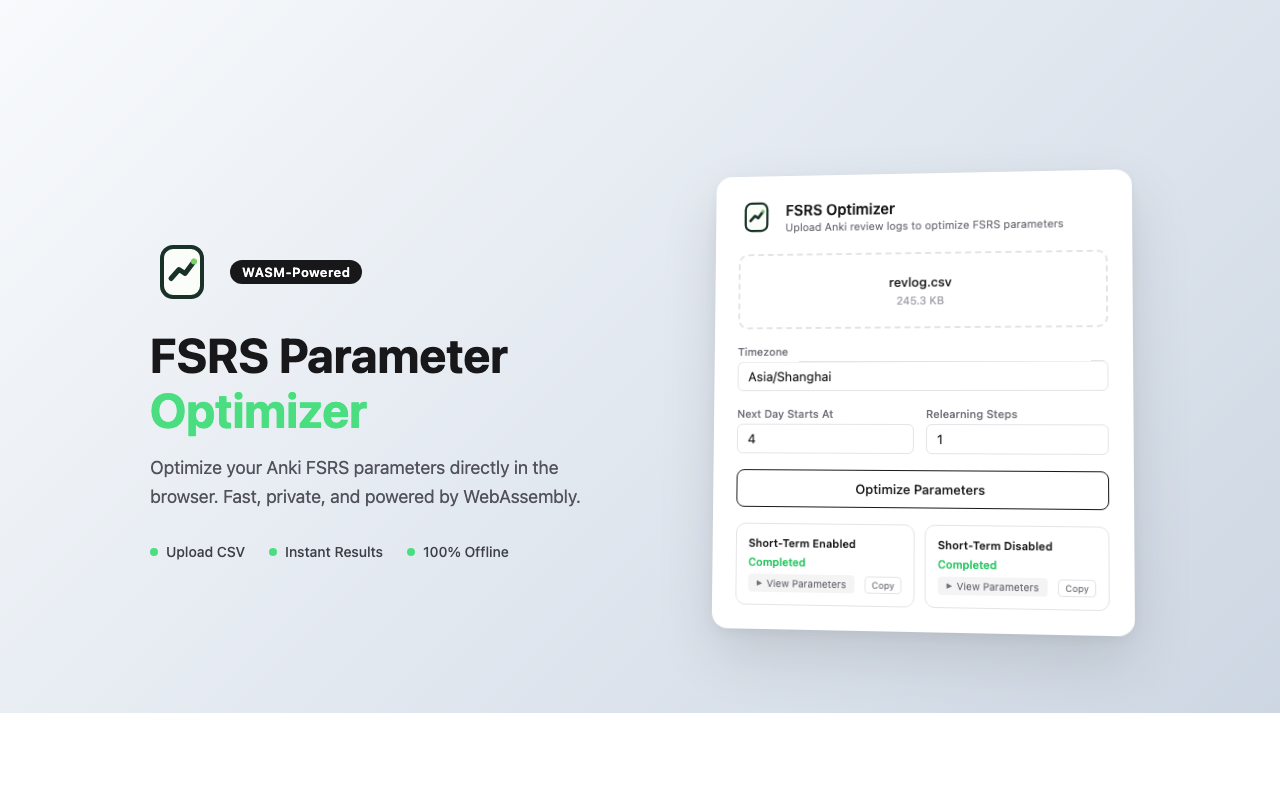
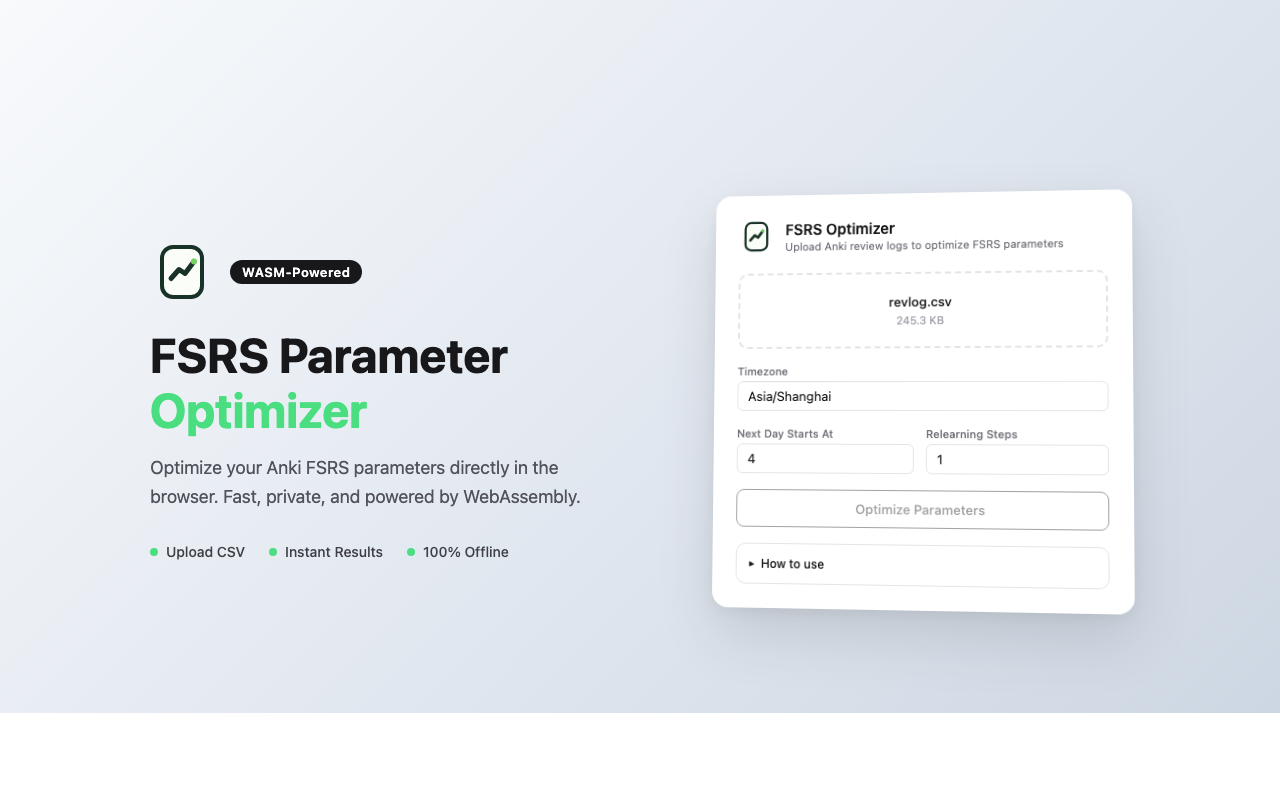
feat: improve UI instructions and update styles for better usability

diff --git a/images/screenshot-1-hero.html b/images/screenshot-1-hero.html
@@ -181,63 +181,26 @@
     margin-bottom: 16px;
   }
 
-  .results {
-    display: flex;
-    gap: 10px;
+  .btn-disabled {
+    opacity: 0.4;
+    cursor: not-allowed;
   }
 
-  .result-card {
-    flex: 1;
+  .how-to-use {
     border: 1px solid #e4e4e7;
     border-radius: 10px;
     padding: 12px;
-  }
-
-  .result-card h3 {
-    font-size: 11px;
-    font-weight: 600;
-    color: #18181b;
-    margin-bottom: 6px;
-  }
-
-  .result-card .completed {
-    font-size: 11px;
+    font-size: 12px;
     font-weight: 500;
-    color: #22c55e;
-    margin-bottom: 6px;
-  }
-
-  .result-card .param-row {
+    color: #18181b;
     display: flex;
     align-items: center;
-    justify-content: space-between;
-    margin-top: 4px;
+    gap: 6px;
   }
 
-  .result-card .param-toggle {
-    display: flex;
-    align-items: center;
-    gap: 4px;
-    font-size: 10px;
-    color: #71717a;
-    background: #f4f4f5;
-    border: none;
-    border-radius: 4px;
-    padding: 3px 8px;
-  }
-
-  .result-card .param-toggle .arrow {
+  .how-to-use .arrow {
     font-size: 8px;
-    display: inline-block;
-  }
-
-  .result-card .copy-btn {
-    font-size: 9px;
-    color: #71717a;
-    border: 1px solid #e4e4e7;
-    border-radius: 4px;
-    padding: 2px 6px;
-    background: #fff;
+    color: #18181b;
   }
 </style>
 </head>
@@ -295,24 +258,9 @@
         <div class="input-mock">1</div>
       </div>
     </div>
-    <div class="btn-mock">Optimize Parameters</div>
-    <div class="results">
-      <div class="result-card">
-        <h3>Short-Term Enabled</h3>
-        <p class="completed">Completed</p>
-        <div class="param-row">
-          <span class="param-toggle"><span class="arrow">&#9654;</span> View Parameters</span>
-          <span class="copy-btn">Copy</span>
-        </div>
-      </div>
-      <div class="result-card">
-        <h3>Short-Term Disabled</h3>
-        <p class="completed">Completed</p>
-        <div class="param-row">
-          <span class="param-toggle"><span class="arrow">&#9654;</span> View Parameters</span>
-          <span class="copy-btn">Copy</span>
-        </div>
-      </div>
+    <div class="btn-mock btn-disabled">Optimize Parameters</div>
+    <div class="how-to-use">
+      <span class="arrow">&#9654;</span> How to use
     </div>
   </div>
 </body>

diff --git a/entrypoints/popup/App.tsx b/entrypoints/popup/App.tsx
@@ -143,11 +143,12 @@ function App() {
 
       {/* Instructions */}
       {results.length === 0 && !isProcessing && (
-        <div className="rounded-lg border border-[#E4E4E7] p-3">
-          <p className="text-xs font-medium text-[#18181B] mb-1.5">
+        <details className="rounded-lg border border-[#E4E4E7] p-3 group">
+          <summary className="text-xs font-medium text-[#18181B] cursor-pointer list-none flex items-center gap-1">
+            <span className="inline-block transition-transform duration-200 group-open:rotate-90">&#9654;</span>
             How to use
-          </p>
-          <ol className="text-[11px] text-[#71717A] list-decimal list-inside space-y-1">
+          </summary>
+          <ol className="text-[11px] text-[#71717A] list-decimal list-inside space-y-1 mt-1.5">
             <li>
               Download{' '}
               <a
@@ -163,7 +164,7 @@ function App() {
             <li>Configure timezone and settings</li>
             <li>Click &quot;Optimize Parameters&quot;</li>
           </ol>
-        </div>
+        </details>
       )}
     </div>
   )

diff --git a/entrypoints/popup/style.css b/entrypoints/popup/style.css
@@ -3,7 +3,7 @@
 body {
   margin: 0;
   width: 520px;
-  min-height: 500px;
+  min-height: auto;
   font-family: -apple-system, BlinkMacSystemFont, "Segoe UI", Roboto,
     "Helvetica Neue", Arial, sans-serif;
   font-size: 14px;
